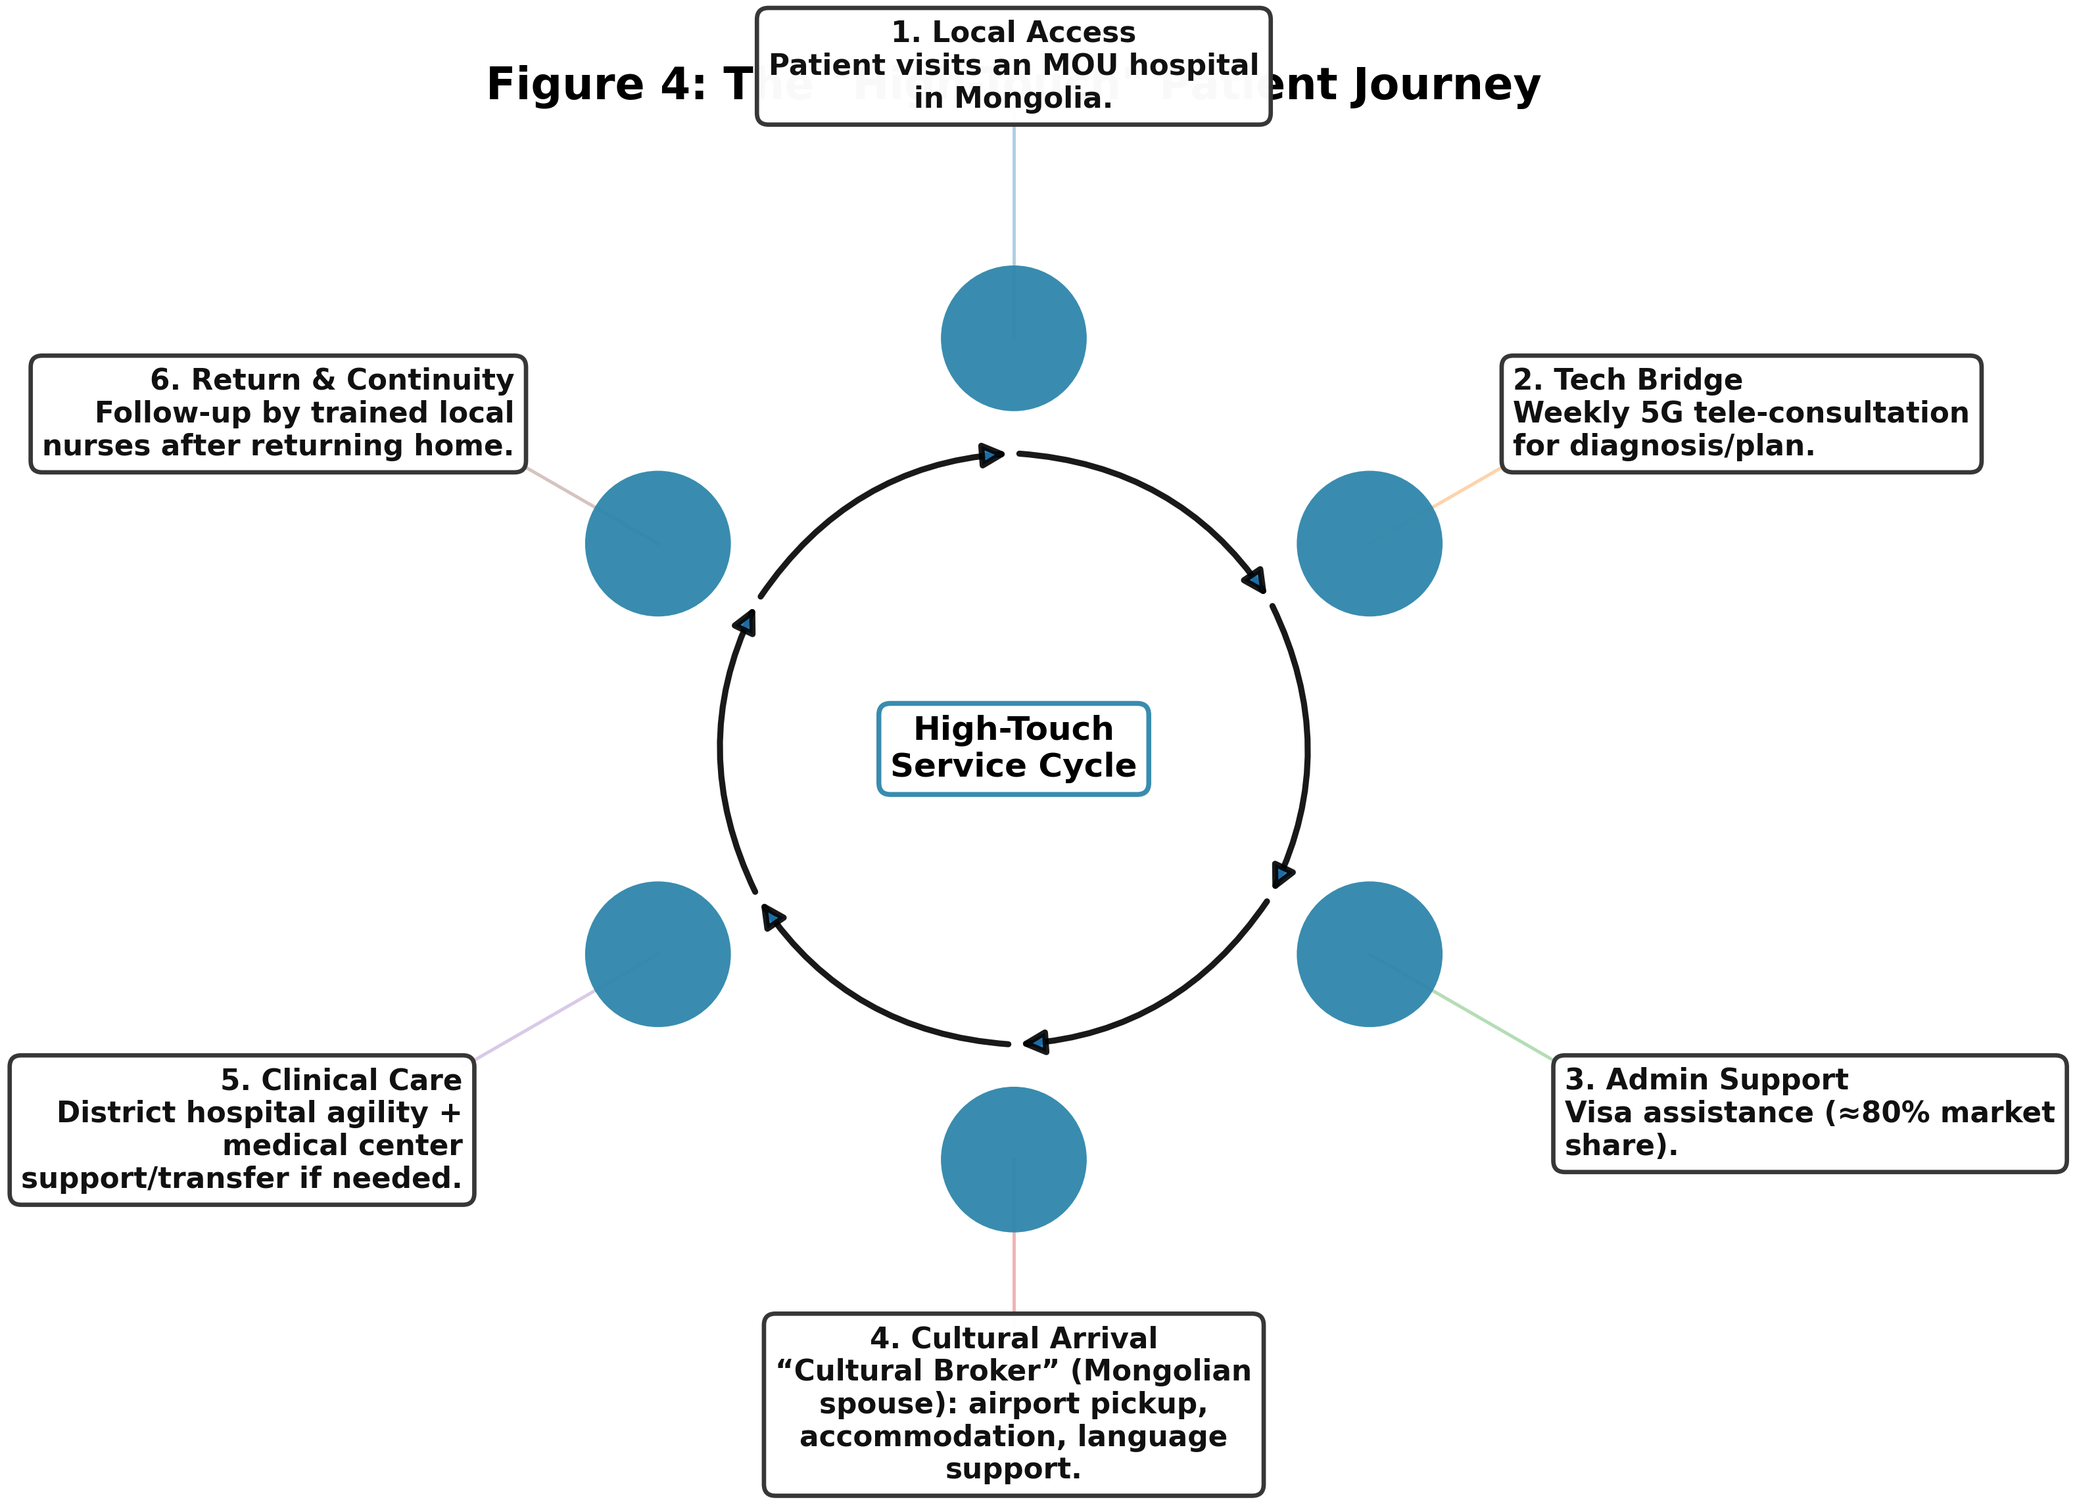
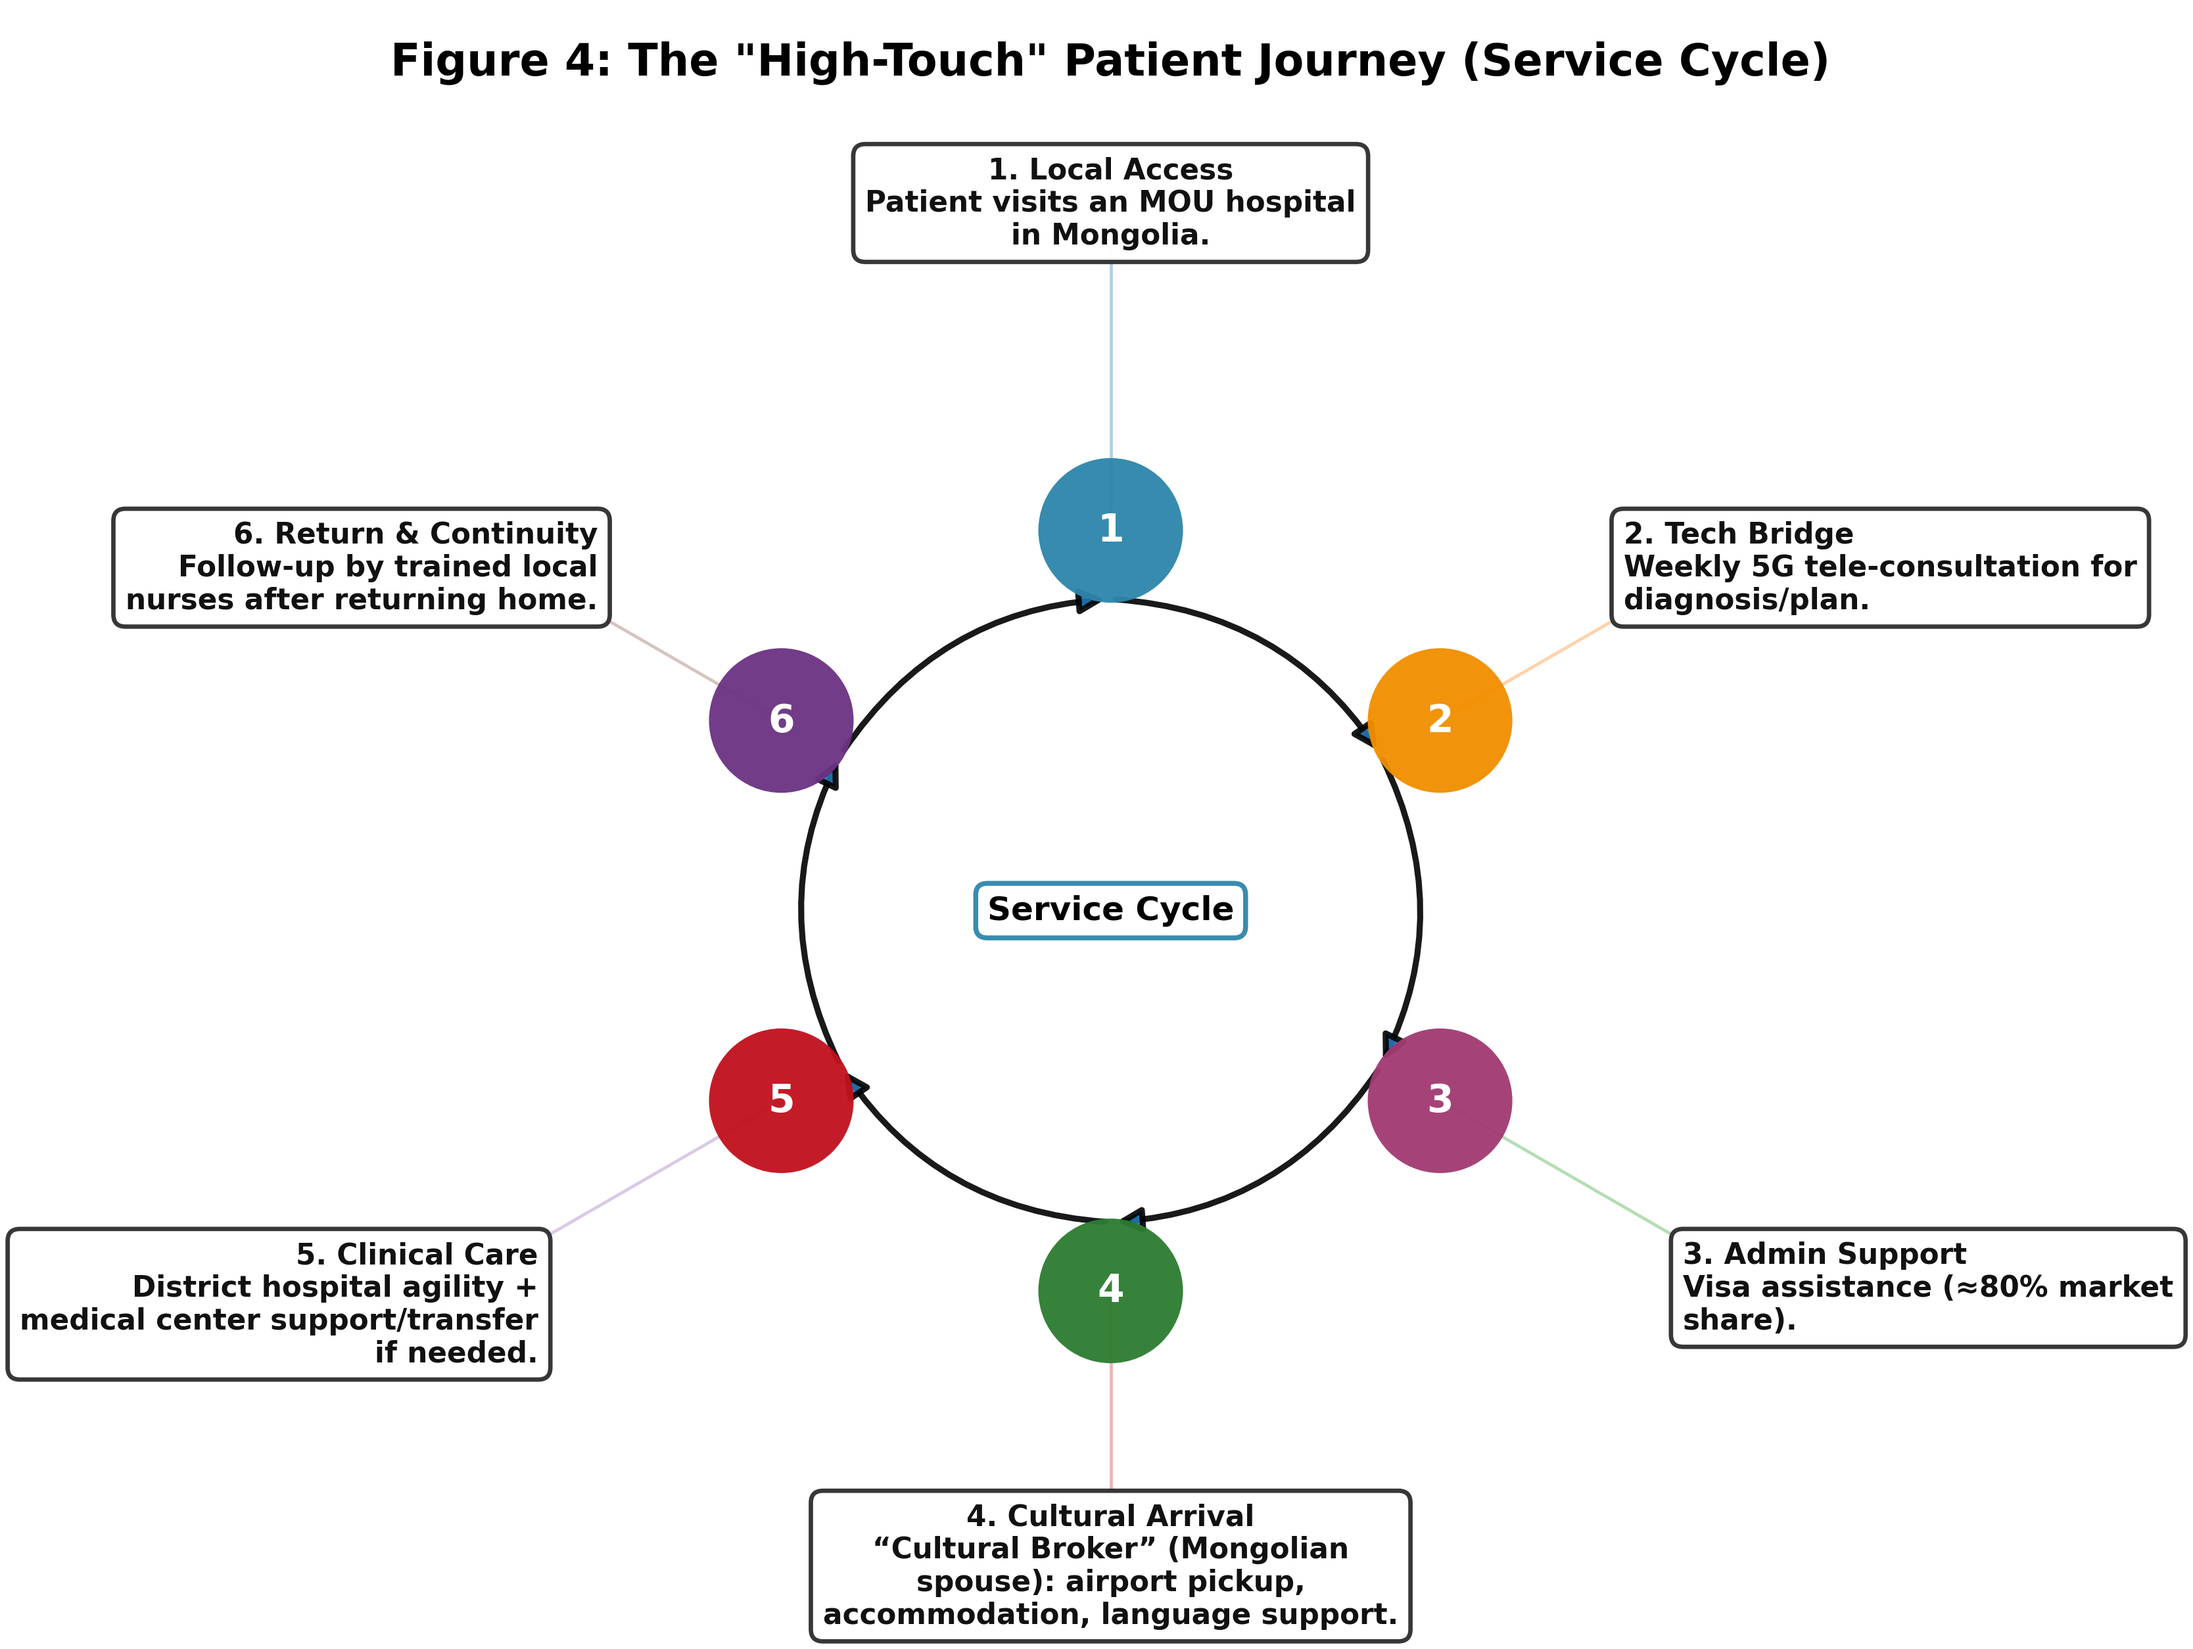
update fig4

diff --git a/fig4.py b/fig4.py
@@ -1,223 +1,130 @@
 import matplotlib.pyplot as plt
-import matplotlib.patches as mpatches
-from matplotlib.patches import FancyBboxPatch, Circle, FancyArrowPatch, Wedge
+from matplotlib.patches import Circle, FancyArrowPatch
 import numpy as np
+import textwrap
 
-# Create figure
-fig, ax = plt.subplots(figsize=(16, 16))
-ax.set_xlim(-10, 10)
-ax.set_ylim(-10, 10)
-ax.axis('off')
+# Figure 4: Service Cycle (High-Touch Patient Journey)
+# Requirements addressed:
+# 1) Circles use distinct colors and are labeled with numbers.
+# 2) Title will not be covered (extra top margin + lower diagram center).
+# 3) Text boxes placed outward with alternating radii to avoid overlap.
 
-# Center circle
-center_circle = Circle((0, 0), 1, color='#2E86AB', alpha=0.95, zorder=5)
-ax.add_patch(center_circle)
-ax.text(0, 0.2, 'Patient', ha='center', va='center', 
-        fontsize=13, weight='bold', color='white', zorder=6)
-ax.text(0, -0.25, 'Journey', ha='center', va='center', 
-        fontsize=11, weight='bold', color='white', zorder=6)
+def wrap(s, width=30):
+    return "\n".join(textwrap.wrap(s, width=width, break_long_words=False))
 
-# Define 6 stages with better spacing
-stages = [
-    {
-        'num': '1',
-        'title': 'Local Access',
-        'location': 'In Mongolia',
-        'desc': ['Patient visits', 'MOU Hospital'],
-        'angle': 90,
-        'color': '#90BE6D',
-        'box_offset': 0  # No offset
-    },
-    {
-        'num': '2',
-        'title': 'Tech Bridge',
-        'location': '5G Platform',
-        'desc': ['Weekly 5G', 'Tele-consultation'],
-        'angle': 30,
-        'color': '#4361EE',
-        'box_offset': 0
-    },
-    {
-        'num': '3',
-        'title': 'Admin Support',
-        'location': '80% Market Share',
-        'desc': ['Visa Assistance', 'Travel Setup'],
-        'angle': -30,
-        'color': '#F9844A',
-        'box_offset': 0
-    },
-    {
-        'num': '4',
-        'title': 'Cultural Arrival',
-        'location': 'Cultural Broker',
-        'desc': ['Airport Pickup', 'Accommodation', 'Language Support'],
-        'angle': -90,
-        'color': '#F9C74F',
-        'box_offset': 0.3  # Slightly larger box
-    },
-    {
-        'num': '5',
-        'title': 'Clinical Care',
-        'location': 'In Taiwan',
-        'desc': ['District Hospital', '+ Medical Center', 'Support'],
-        'angle': -150,
-        'color': '#E63946',
-        'box_offset': 0.2
-    },
-    {
-        'num': '6',
-        'title': 'Return & Continuity',
-        'location': 'Back to Mongolia',
-        'desc': ['Follow-up by', 'Local Nurses'],
-        'angle': 150,
-        'color': '#577590',
-        'box_offset': 0
-    }
+steps = [
+    ("Local Access",
+     "Patient visits an MOU hospital in Mongolia."),
+    ("Tech Bridge",
+     "Weekly 5G tele-consultation for diagnosis/plan."),
+    ("Admin Support",
+     "Visa assistance (≈80% market share)."),
+    ("Cultural Arrival",
+     '“Cultural Broker” (Mongolian spouse): airport pickup, accommodation, language support.'),
+    ("Clinical Care",
+     "District hospital agility + medical center support/transfer if needed."),
+    ("Return & Continuity",
+     "Follow-up by trained local nurses after returning home."),
 ]
 
-# Draw stages - well-spaced layout
-radius = 6.5
-for stage in stages:
-    angle_rad = np.radians(stage['angle'])
-    x = radius * np.cos(angle_rad)
-    y = radius * np.sin(angle_rad)
-    
-    # Box dimensions based on content
-    box_width = 2.4
-    box_height = 2.0 + stage['box_offset']
-    
-    # Draw stage box
-    box = FancyBboxPatch((x - box_width/2, y - box_height/2), 
-                         box_width, box_height,
-                         boxstyle="round,pad=0.1",
-                         facecolor=stage['color'], 
-                         edgecolor='white',
-                         linewidth=2.5, alpha=0.9, zorder=3)
-    ax.add_patch(box)
-    
-    # Step number badge at top
-    badge_y = y + box_height/2 - 0.25
-    badge = Circle((x, badge_y), 0.22, color='white', alpha=1, zorder=4)
-    ax.add_patch(badge)
-    ax.text(x, badge_y, stage['num'],
-           ha='center', va='center', fontsize=11, weight='bold',
-           color=stage['color'], zorder=5)
-    
-    # Title
-    title_y = y + box_height/2 - 0.65
-    ax.text(x, title_y, stage['title'],
-           ha='center', va='center', fontsize=10, weight='bold',
-           color='white', zorder=4)
-    
-    # Location/subtitle
-    location_y = title_y - 0.28
-    ax.text(x, location_y, stage['location'],
-           ha='center', va='center', fontsize=7.5, style='italic',
-           color='white', alpha=0.95, zorder=4)
-    
-    # Description lines
-    desc_start_y = location_y - 0.35
-    for i, line in enumerate(stage['desc']):
-        ax.text(x, desc_start_y - (i * 0.22), line,
-               ha='center', va='center', fontsize=7.5,
-               color='white', zorder=4)
-    
-    # Connecting line to center
-    inner_r = 1.3
-    outer_r = radius - 1.4
-    
-    x_in = inner_r * np.cos(angle_rad)
-    y_in = inner_r * np.sin(angle_rad)
-    x_out = outer_r * np.cos(angle_rad)
-    y_out = outer_r * np.sin(angle_rad)
-    
-    connector = FancyArrowPatch((x_in, y_in), (x_out, y_out),
-                               arrowstyle='<->', mutation_scale=15,
-                               linewidth=1.8, color=stage['color'], 
-                               alpha=0.4, zorder=2)
-    ax.add_patch(connector)
+# Distinct node colors (6 variations)
+node_colors = ["#2E86AB", "#F18F01", "#A23B72", "#2E7D32", "#C1121F", "#6C3483"]
 
-# Draw circular flow arrows
-flow_radius = 8.2
-for i in range(len(stages)):
-    next_i = (i + 1) % len(stages)
-    
-    angle1 = stages[i]['angle']
-    angle2 = stages[next_i]['angle']
-    
-    # Handle wraparound
-    if i == len(stages) - 1:
-        angle2 += 360
-    
-    # Calculate arc points
-    arc_span = 15  # degrees from each box
-    start_angle = angle1 - arc_span
-    end_angle = angle2 + arc_span
-    
-    x1 = flow_radius * np.cos(np.radians(start_angle))
-    y1 = flow_radius * np.sin(np.radians(start_angle))
-    x2 = flow_radius * np.cos(np.radians(end_angle))
-    y2 = flow_radius * np.sin(np.radians(end_angle))
-    
-    # Curved arrow
-    flow_arrow = FancyArrowPatch((x1, y1), (x2, y2),
-                                arrowstyle='->', mutation_scale=20,
-                                linewidth=2.5, color='#AAAAAA',
-                                alpha=0.6, zorder=1,
-                                connectionstyle="arc3,rad=0.3")
-    ax.add_patch(flow_arrow)
+# ---- Canvas ----
+fig, ax = plt.subplots(figsize=(12, 8.6))
+ax.set_aspect("equal")
+ax.axis("off")
+ax.set_xlim(-7.8, 7.8)
+ax.set_ylim(-6.4, 6.4)
 
-# Key insights - positioned outside main circle
-# Insight 1: 80% Market Share
-insight1_box = FancyBboxPatch((5, 8.5), 4, 0.9,
-                              boxstyle="round,pad=0.15",
-                              facecolor='#FFE5B4', edgecolor='#F9844A',
-                              linewidth=2.5, alpha=0.95, zorder=10)
-ax.add_patch(insight1_box)
-ax.text(7, 9.1, '80% Market Share', ha='center', va='center',
-       fontsize=10.5, weight='bold', color='#F9844A', zorder=11)
-ax.text(7, 8.75, 'Medical Visa Processing', ha='center', va='center',
-       fontsize=8, style='italic', color='#F9844A', zorder=11)
+# Title: placed high, with extra padding; diagram center moved downward
+ax.text(
+    0, 6.05, 'Figure 4: The "High-Touch" Patient Journey (Service Cycle)',
+    ha="center", va="center", fontsize=16, weight="bold", zorder=50
+)
 
-# Insight 2: Cultural Broker
-insight2_box = FancyBboxPatch((-9, 8.5), 4, 0.9,
-                              boxstyle="round,pad=0.15",
-                              facecolor='#FFF9E6', edgecolor='#F9C74F',
-                              linewidth=2.5, alpha=0.95, zorder=10)
-ax.add_patch(insight2_box)
-ax.text(-7, 9.1, 'Cultural Broker', ha='center', va='center',
-       fontsize=10.5, weight='bold', color='#F9C74F', zorder=11)
-ax.text(-7, 8.75, 'High Patient Loyalty', ha='center', va='center',
-       fontsize=8, style='italic', color='#F9C74F', zorder=11)
+# ---- Layout (shifted down to protect title area) ----
+n = len(steps)
+angles = np.linspace(np.pi/2, np.pi/2 - 2*np.pi, n, endpoint=False)  # start at top, clockwise
 
-# Title
-title_box = FancyBboxPatch((-7.5, 9.5), 15, 0.6,
-                          boxstyle="round,pad=0.1",
-                          facecolor='#2E86AB', edgecolor='#1565C0',
-                          linewidth=3, alpha=0.95, zorder=15)
-ax.add_patch(title_box)
-ax.text(0, 9.8, 'Figure 4: The "High-Touch" Patient Journey',
-       ha='center', va='center', fontsize=16, weight='bold',
-       color='white', zorder=16)
+center = (0.0, -0.75)     # shift the whole cycle down so title is safe
+node_ring_r = 3.05        # node radius ring
+node_r = 0.58             # node circle radius
+text_r_base = 4.55        # baseline text radius
+text_r_list = [text_r_base + (0.75 if i % 2 == 0 else 0.20) for i in range(n)]  # alternate to reduce overlap
 
-# Subtitle at bottom
-ax.text(0, -8.8, 'Service Cycle: Comprehensive Patient Support from Mongolia to Taiwan',
-       ha='center', va='center', fontsize=11, style='italic',
-       color='#555555',
-       bbox=dict(boxstyle='round,pad=0.4', facecolor='#F5F5F5',
-                edgecolor='#CCCCCC', linewidth=2))
+node_xy = []
 
-# Add flow direction indicator
-ax.text(0, -9.5, '→ Clockwise Flow →', ha='center', va='center',
-       fontsize=9, color='#999999', style='italic')
+# ---- Draw nodes + labels + outward text boxes ----
+for i, (title, desc) in enumerate(steps):
+    a = angles[i]
+    nx = center[0] + node_ring_r * np.cos(a)
+    ny = center[1] + node_ring_r * np.sin(a)
+    node_xy.append((nx, ny))
 
-# Save
+    # Node circle with distinct color
+    ax.add_patch(Circle((nx, ny), node_r, facecolor=node_colors[i], edgecolor="none", alpha=0.96, zorder=10))
+
+    # Number label inside node
+    ax.text(nx, ny, str(i + 1), ha="center", va="center",
+            fontsize=14, weight="bold", color="white", zorder=12)
+
+    # Text box position (farther out)
+    tr = text_r_list[i]
+    tx = center[0] + tr * np.cos(a)
+    ty = center[1] + tr * np.sin(a)
+
+    # Alignment by quadrant
+    ha = "left" if np.cos(a) > 0.2 else ("right" if np.cos(a) < -0.2 else "center")
+    va = "bottom" if np.sin(a) > 0.2 else ("top" if np.sin(a) < -0.2 else "center")
+
+    box_text = f"{i+1}. {title}\n{wrap(desc, 32)}"
+
+    ax.text(
+        tx, ty, box_text,
+        ha=ha, va=va, fontsize=10.5, weight="bold", color="#111111",
+        bbox=dict(boxstyle="round,pad=0.42", facecolor="white", edgecolor="#333333",
+                  linewidth=1.6, alpha=0.98),
+        zorder=20
+    )
+
+    # Connector line to the text box (kept subtle)
+    ax.plot([nx, tx], [ny, ty], linewidth=1.15, alpha=0.35, zorder=5)
+
+# ---- Draw cycle arrows between nodes ----
+for i in range(n):
+    x1, y1 = node_xy[i]
+    x2, y2 = node_xy[(i + 1) % n]
+
+    # Create a small shrink so arrow doesn't touch node circles
+    v1 = np.array([x1 - center[0], y1 - center[1]])
+    v2 = np.array([x2 - center[0], y2 - center[1]])
+    v1u = v1 / (np.linalg.norm(v1) + 1e-9)
+    v2u = v2 / (np.linalg.norm(v2) + 1e-9)
+
+    start = (x1 - v1u[0] * (node_r * 0.95), y1 - v1u[1] * (node_r * 0.95))
+    end   = (x2 - v2u[0] * (node_r * 0.95), y2 - v2u[1] * (node_r * 0.95))
+
+    ax.add_patch(FancyArrowPatch(
+        start, end,
+        arrowstyle="-|>", mutation_scale=18,
+        linewidth=2.2, alpha=0.9,
+        connectionstyle="arc3,rad=-0.25",  # clockwise curve
+        zorder=8
+    ))
+
+# Center label
+ax.text(
+    center[0], center[1], "Service Cycle",
+    ha="center", va="center", fontsize=12, weight="bold",
+    bbox=dict(boxstyle="round,pad=0.35", facecolor="white",
+              edgecolor="#2E86AB", linewidth=1.8, alpha=0.95),
+    zorder=15
+)
+
 plt.tight_layout()
-plt.savefig('Figure4_High_Touch_Patient_Journey.png', dpi=300,
-           bbox_inches='tight', facecolor='white', edgecolor='none')
+plt.savefig("Figure4_ServiceCycle_HighTouch_PatientJourney.png", dpi=300, bbox_inches="tight",
+            facecolor="white", edgecolor="none")
 plt.show()
 
-print("✅ Figure 4 generated successfully!")
-print("📁 Filename: 'Figure4_High_Touch_Patient_Journey.png'")
-print("🔄 6-stage service cycle with no text overlap")
-print("⭐ Key features highlighted: 80% Market Share & Cultural Broker")
+print("Saved: Figure4_ServiceCycle_HighTouch_PatientJourney.png")
